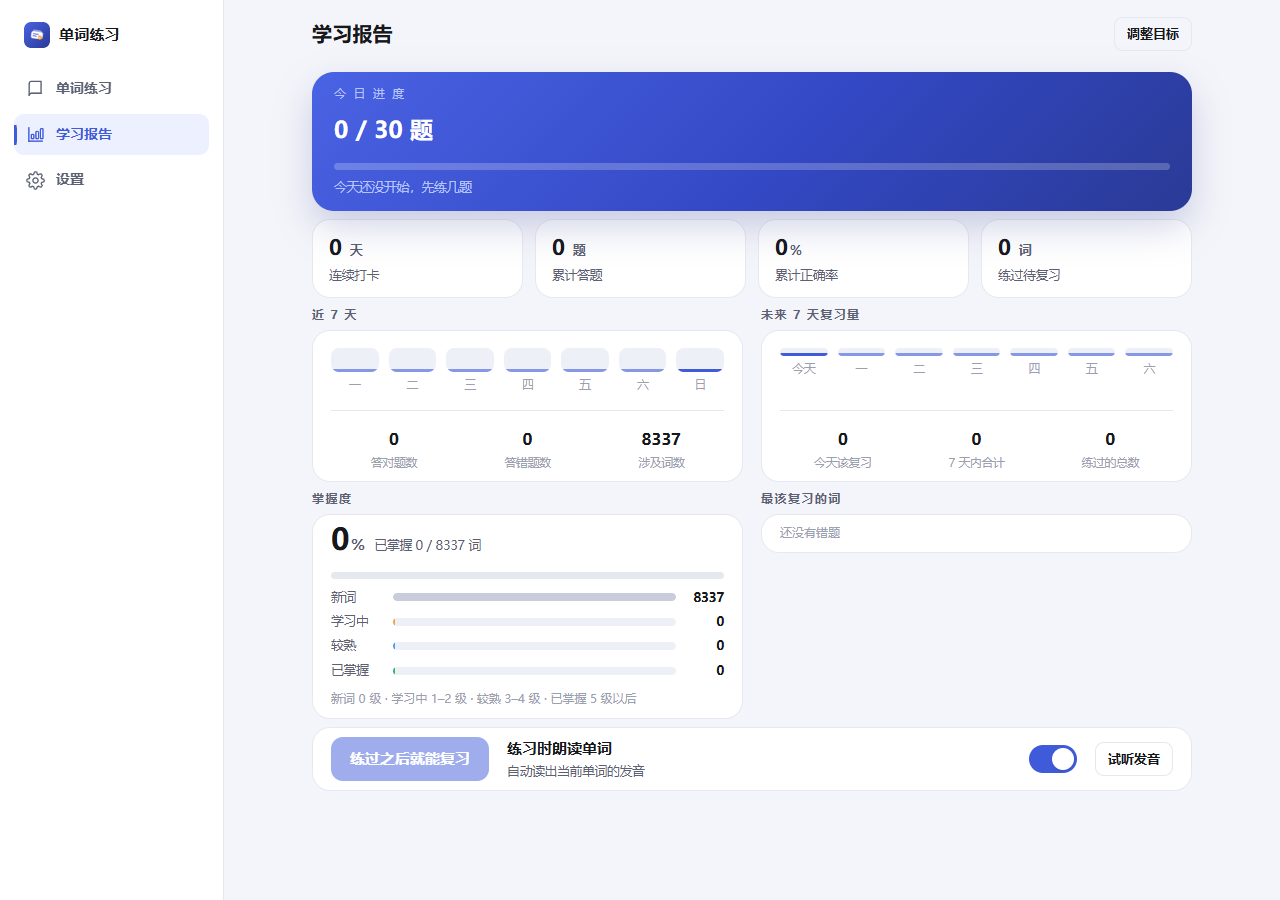
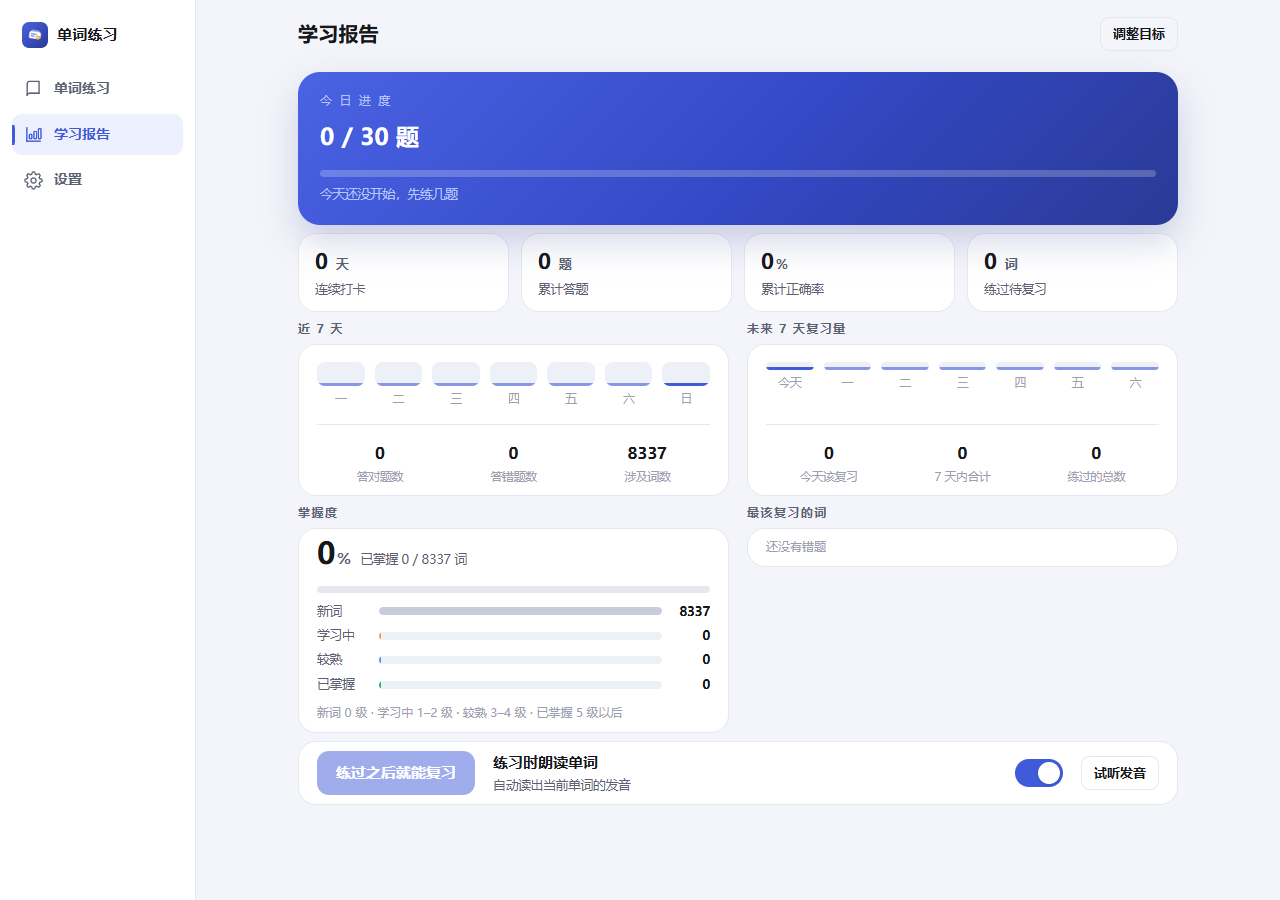
feat: 导航收窄并修复缩放隐藏；首页词库改自定义下拉；进度条等宽
导航栏
- 宽度 224px → 196px，窄屏档 176px
- 断点从 901 降到 761。原来 1280 屏缩放到 150% 时 CSS 宽只剩 853，
  掉出断点就隐藏。现在放到 167% 仍在，200% 才隐藏（那时内容区放不下）

首页词库选择
- 去掉浏览器原生 select，改成自定义下拉
- 触发器显示词库名 + 词数/屏蔽数，箭头随展开旋转
- 菜单里每项显示名称与词数，当前项打勾
- 点外部收起、Esc 收起、选完自动收起，带过渡动画
- 选择仍写入 worddrill.bookId，行为不变

进度条
- 首页 hero 与报告页 hero 的左右内边距统一为 22px，两处蓝色进度条等宽

测试
- ui-smoke 增加：无原生 select、菜单可展开、Esc 可收起
- node --test 79 通过

版本 web-1.14，缓存 1.14.0

diff --git a/public/style.css b/public/style.css
@@ -1432,3 +1432,188 @@ button, .mode, .opt, .word-row, .drop { -webkit-tap-highlight-color: transparent
 .report-page .card.report-card { padding: 9px 18px; }
 .report-page .chart { height: 54px; }
 
+
+/* ---------- 导航栏收窄 + 缩放不失效 ---------- */
+
+/* 断点从 901 提到 761：1280 屏放大到 150% 时 CSS 宽 853，导航仍在 */
+@media (min-width: 761px) and (max-width: 900px) {
+  body { padding-left: 176px; }
+  .sidenav {
+    display: flex;
+    position: fixed;
+    z-index: 40;
+    top: 0;
+    left: 0;
+    bottom: 0;
+    width: 176px;
+    flex-direction: column;
+    padding: 22px 10px;
+    border-right: 1px solid var(--divider);
+    background: var(--surface);
+  }
+  .sidenav-brand {
+    display: flex; align-items: center; gap: 8px;
+    padding: 0 8px 18px; color: var(--text);
+    font-size: 14px; font-weight: 700;
+  }
+  .sidenav-logo { width: 24px; height: 24px; border-radius: 6px; }
+  .sidenav-items { display: flex; flex-direction: column; gap: 4px; }
+  .nav-item {
+    position: relative; display: flex; align-items: center; gap: 9px;
+    padding: 9px 10px; border-radius: 9px;
+    color: var(--muted); font-size: 13.5px; font-weight: 600;
+    text-decoration: none; overflow: hidden;
+    transition: color 0.18s ease, background 0.18s ease, transform 0.18s ease;
+  }
+  .nav-item:hover { background: var(--hover); color: var(--text); transform: translateX(2px); }
+  .nav-item.active { color: var(--brand); background: var(--brand-soft); }
+  .nav-icon { flex: none; width: 18px; height: 18px; fill: none; stroke: currentColor; stroke-width: 1.7; stroke-linecap: round; stroke-linejoin: round; }
+  .nav-item::before {
+    content: ''; position: absolute; left: 0; top: 50%; width: 3px; height: 0;
+    border-radius: 0 3px 3px 0; background: var(--brand);
+    transform: translateY(-50%); transition: height 0.24s cubic-bezier(0.34, 1.56, 0.64, 1);
+  }
+  .nav-item.active::before { height: 18px; }
+  .app.no-sidenav ~ .sidenav,
+  body:has(.app.no-sidenav) .sidenav { visibility: hidden; opacity: 0; }
+  body:has(.app.no-sidenav) { padding-left: 0; }
+  .page-head[data-navpage] .icon-btn[data-action="back"] { display: none; }
+}
+
+/* 原来的 224px 收窄到 196px，侧边留白本来就多余 */
+@media (min-width: 901px) {
+  body { padding-left: 196px; }
+  .sidenav { width: 196px; padding: 22px 12px; }
+}
+
+/* ---------- 首页词库选择（自定义下拉） ---------- */
+
+.book-picker { position: relative; }
+
+.book-select {
+  display: flex;
+  align-items: center;
+  justify-content: space-between;
+  gap: 10px;
+  width: 100%;
+  padding: 11px 13px;
+  border: 1px solid var(--divider);
+  border-radius: 12px;
+  background: var(--surface);
+  color: var(--text);
+  font: inherit;
+  text-align: left;
+  cursor: pointer;
+  transition: border-color 0.16s ease, box-shadow 0.16s ease, background 0.16s ease;
+}
+.book-select:hover { border-color: var(--brand); }
+.book-select:focus-visible {
+  outline: none;
+  border-color: var(--brand);
+  box-shadow: 0 0 0 3px var(--brand-soft);
+}
+
+.book-select-main { display: flex; flex-direction: column; gap: 2px; min-width: 0; }
+.book-select-name {
+  overflow: hidden;
+  color: var(--text);
+  font-size: 14.5px;
+  font-weight: 600;
+  text-overflow: ellipsis;
+  white-space: nowrap;
+}
+.book-select-meta { color: var(--hint); font-size: 12px; }
+
+.book-select-arrow {
+  flex: none;
+  width: 17px;
+  height: 17px;
+  fill: none;
+  stroke: var(--muted);
+  stroke-width: 2;
+  stroke-linecap: round;
+  stroke-linejoin: round;
+  transition: transform 0.22s cubic-bezier(0.34, 1.56, 0.64, 1), stroke 0.16s ease;
+}
+.book-picker.open .book-select-arrow { transform: rotate(180deg); stroke: var(--brand); }
+
+.book-menu {
+  position: absolute;
+  z-index: 30;
+  top: calc(100% + 6px);
+  left: 0;
+  right: 0;
+  max-height: 280px;
+  overflow-y: auto;
+  padding: 5px;
+  border: 1px solid var(--divider);
+  border-radius: 12px;
+  background: var(--surface);
+  box-shadow: 0 14px 34px rgba(15, 20, 40, 0.16);
+  animation: menu-in 0.16s ease both;
+}
+.book-menu[hidden] { display: none; }
+
+@keyframes menu-in {
+  from { opacity: 0; transform: translateY(-5px) scale(0.985); }
+  to { opacity: 1; transform: translateY(0) scale(1); }
+}
+
+.book-option {
+  display: flex;
+  align-items: center;
+  justify-content: space-between;
+  gap: 10px;
+  width: 100%;
+  padding: 9px 10px;
+  border: 0;
+  border-radius: 8px;
+  background: transparent;
+  color: var(--text);
+  font: inherit;
+  text-align: left;
+  cursor: pointer;
+  transition: background 0.14s ease;
+}
+.book-option:hover { background: var(--hover); }
+.book-option.active { color: var(--brand); }
+
+.book-option-main { display: flex; flex-direction: column; gap: 2px; min-width: 0; }
+.book-option-name {
+  overflow: hidden;
+  font-size: 14px;
+  font-weight: 600;
+  text-overflow: ellipsis;
+  white-space: nowrap;
+}
+.book-option-meta { color: var(--hint); font-size: 11.5px; }
+
+.book-option-check {
+  flex: none;
+  width: 15px;
+  height: 15px;
+  fill: none;
+  stroke: var(--brand);
+  stroke-width: 2.4;
+  stroke-linecap: round;
+  stroke-linejoin: round;
+  opacity: 0;
+  transform: scale(0.7);
+  transition: opacity 0.16s ease, transform 0.18s cubic-bezier(0.34, 1.56, 0.64, 1);
+}
+.book-option.active .book-option-check { opacity: 1; transform: scale(1); }
+
+@media (prefers-reduced-motion: reduce) {
+  .book-menu, .book-select-arrow, .book-option-check { animation: none; transition: none; }
+}
+
+/* ---------- 学习进度条与词汇进度条等宽 ---------- */
+
+/* 两处 hero 左右内边距原来分别是 24px 和 22px，导致进度条差几像素 */
+.home-page .hero { padding: 20px 22px; }
+.report-tile .hero { padding: 20px 22px; }
+
+@media (max-width: 760px) {
+  .home-page .hero { padding: 18px 16px; }
+  .report-tile .hero { padding: 15px 16px; }
+}

diff --git a/public/app.js b/public/app.js
@@ -253,9 +253,7 @@ async function renderHome() {
     ? `索引 1 – ${max} · 还有 ${Math.max(stats.wordCount - stats.practiced, 0)} 词未练${stats.blockedCount ? ` · 屏蔽 ${stats.blockedCount} 个` : ''}`
     : (stats.blockedCount ? `${stats.blockedCount} 个单词都被屏蔽了，恢复后才会出现` : '这个词库还没有单词');
 
-  const bookOptions = state.books
-    .map((b) => `<option value="${b.id}" ${b.id === state.bookId ? 'selected' : ''}>${esc(b.name)}（${b.wordCount} 词）</option>`)
-    .join('');
+  const books = state.books || [];
 
   const modes = Object.keys(state.modes).map((key) => {
     const info = state.modes[key] || {};
@@ -280,10 +278,29 @@ async function renderHome() {
     <div class="home-grid" style="margin-top:20px">
       <div class="stack">
         <div class="card book-card">
-          <label class="hint" for="bookSelect">词库</label>
-          <select id="bookSelect" class="field">${bookOptions}</select>
+          <label class="hint" for="bookPick">词库</label>
+          <div class="book-picker" id="bookPicker">
+            <button type="button" class="book-select" id="bookPick" aria-haspopup="listbox" aria-expanded="false">
+              <span class="book-select-main">
+                <span class="book-select-name">${esc(book.name)}</span>
+                <span class="book-select-meta">${book.wordCount} 词${book.blockedCount ? ` · 屏蔽 ${book.blockedCount}` : ''}</span>
+              </span>
+              <svg class="book-select-arrow" viewBox="0 0 24 24" aria-hidden="true"><path d="M6 9l6 6 6-6"/></svg>
+            </button>
+            <div class="book-menu" role="listbox" hidden>
+              ${books.map((b) => `
+                <button type="button" class="book-option${b.id === book.id ? ' active' : ''}" role="option"
+                        aria-selected="${b.id === book.id}" data-book="${b.id}">
+                  <span class="book-option-main">
+                    <span class="book-option-name">${esc(b.name)}</span>
+                    <span class="book-option-meta">${b.wordCount} 词${b.blockedCount ? ` · 屏蔽 ${b.blockedCount}` : ''}</span>
+                  </span>
+                  <svg class="book-option-check" viewBox="0 0 24 24" aria-hidden="true"><path d="M20 6L9 17l-5-5"/></svg>
+                </button>`).join('')}
+            </div>
+          </div>
           <div class="row" style="margin-top:12px">
-            <div class="meta">共 ${book.wordCount} 词${book.blockedCount ? ` · 屏蔽 ${book.blockedCount}` : ''}</div>
+            <div class="meta"></div>
             <button class="btn text small" data-action="list">词表</button>
             <button class="btn text small" data-action="books">词库管理</button>
           </div>
@@ -339,6 +356,50 @@ async function renderHome() {
       </div>
     </div>
     </div>`;
+
+  bindBookPicker();
+}
+
+/** 首页词库下拉：点开、选中、点外面收起、Esc 收起。 */
+function bindBookPicker() {
+  const picker = document.getElementById('bookPicker');
+  if (!picker) return;
+  const trigger = picker.querySelector('#bookPick');
+  const menu = picker.querySelector('.book-menu');
+  const close = () => {
+    menu.hidden = true;
+    trigger.setAttribute('aria-expanded', 'false');
+    picker.classList.remove('open');
+  };
+  const open = () => {
+    menu.hidden = false;
+    trigger.setAttribute('aria-expanded', 'true');
+    picker.classList.add('open');
+  };
+
+  trigger.addEventListener('click', (event) => {
+    event.stopPropagation();
+    if (menu.hidden) open(); else close();
+  });
+
+  menu.querySelectorAll('[data-book]').forEach((option) => {
+    option.addEventListener('click', () => {
+      const id = Number(option.dataset.book);
+      close();
+      if (id === state.bookId) return;
+      state.bookId = id;
+      state.start = null;
+      state.end = null;
+      localStorage.setItem('worddrill.bookId', id);
+      renderHome();
+    });
+  });
+
+  picker.addEventListener('click', (event) => event.stopPropagation());
+  document.addEventListener('click', close, { once: true });
+  document.addEventListener('keydown', function onKey(event) {
+    if (event.key === 'Escape') { close(); document.removeEventListener('keydown', onKey); }
+  });
 }
 
 /* ---------- 练习 ---------- */
@@ -2193,13 +2254,6 @@ app.addEventListener('click', async (event) => {
 });
 
 app.addEventListener('change', (event) => {
-  if (event.target.id === 'bookSelect') {
-    state.bookId = Number(event.target.value);
-    state.start = null;
-    state.end = null;
-    localStorage.setItem('worddrill.bookId', state.bookId);
-    renderHome();
-  }
   if (event.target.id === 'goalInput') {
     const value = Number(event.target.value);
     if (!Number.isFinite(value) || value < settings.GOAL_MIN || value > settings.GOAL_MAX) {

diff --git a/scripts/ui-smoke.js b/scripts/ui-smoke.js
@@ -72,6 +72,16 @@ async function main() {
     /* ---------- 屏蔽 / 恢复 ---------- */
     await page.evaluate(() => { location.hash = '#/'; });
     await page.waitForSelector('.hero');
+
+    /* ---------- 首页词库选择（自定义下拉） ---------- */
+    check((await page.$('select#bookSelect')) === null, '首页不应再用浏览器原生 select');
+    await page.click('#bookPick');
+    await page.waitForSelector('.book-menu:not([hidden])');
+    check((await page.$$('.book-option')).length > 0, '词库菜单应有选项');
+    await page.keyboard.press('Escape');
+    await page.waitForTimeout(200);
+    check(await page.evaluate(() => document.querySelector('.book-menu').hidden), 'Esc 应能收起词库菜单');
+
     await page.evaluate(() => { location.hash = '#/list'; });
     await page.waitForFunction(() => document.querySelectorAll('.word-row').length === 2);
 
@@ -246,7 +256,7 @@ async function main() {
     await page.click('[data-action="about"]');
     await page.waitForSelector('.about-card');
     const about = await page.textContent('.about-card');
-    check(about.includes('版本 web-1.13'), '关于页应显示版本');
+    check(about.includes('版本 web-1.14'), '关于页应显示版本');
     check(about.includes('zlt mteacase'), '关于页应显示开发者');
     check(!about.includes('开放源代码许可'), '开源许可应已移出关于弹窗');
     await page.keyboard.press('Escape');
@@ -312,6 +322,7 @@ main().catch((err) => {
   console.error('✖ 冒烟失败：', err.message);
   process.exit(1);
 });
+
 
 
 

diff --git a/public/js/repo.js b/public/js/repo.js
@@ -9,7 +9,7 @@ import { parseAbout } from './about.js';
 import { createStorage, getLocalStorage, memoryStorage, exportBackup, parseBackup, clearCache } from './persist.js';
 import { autoBackupEnabled, backupIntervalHours, backupKeepCount } from './settings.js';
 
-export const VERSION = 'web-1.13';
+export const VERSION = 'web-1.14';
 export { MODES, isCorrect };
 
 let autoTimer = 0;
@@ -435,6 +435,7 @@ export function clearAutoBackups() {
 export async function clearOfflineCache() {
   return clearCache();
 }
+
 
 
 

diff --git a/public/sw.js b/public/sw.js
@@ -2,7 +2,7 @@
  * 离线缓存：装到桌面后断网也能用。
  * 改了任何静态文件，把 VERSION 加一，用户下次打开就会拿到新版本。
  */
-const VERSION = '1.13.0';
+const VERSION = '1.14.0';
 const CACHE = `worddrill-${VERSION}`;
 
 const ASSETS = [
@@ -101,6 +101,7 @@ self.addEventListener('fetch', (event) => {
     }),
   );
 });
+
 
 
 
